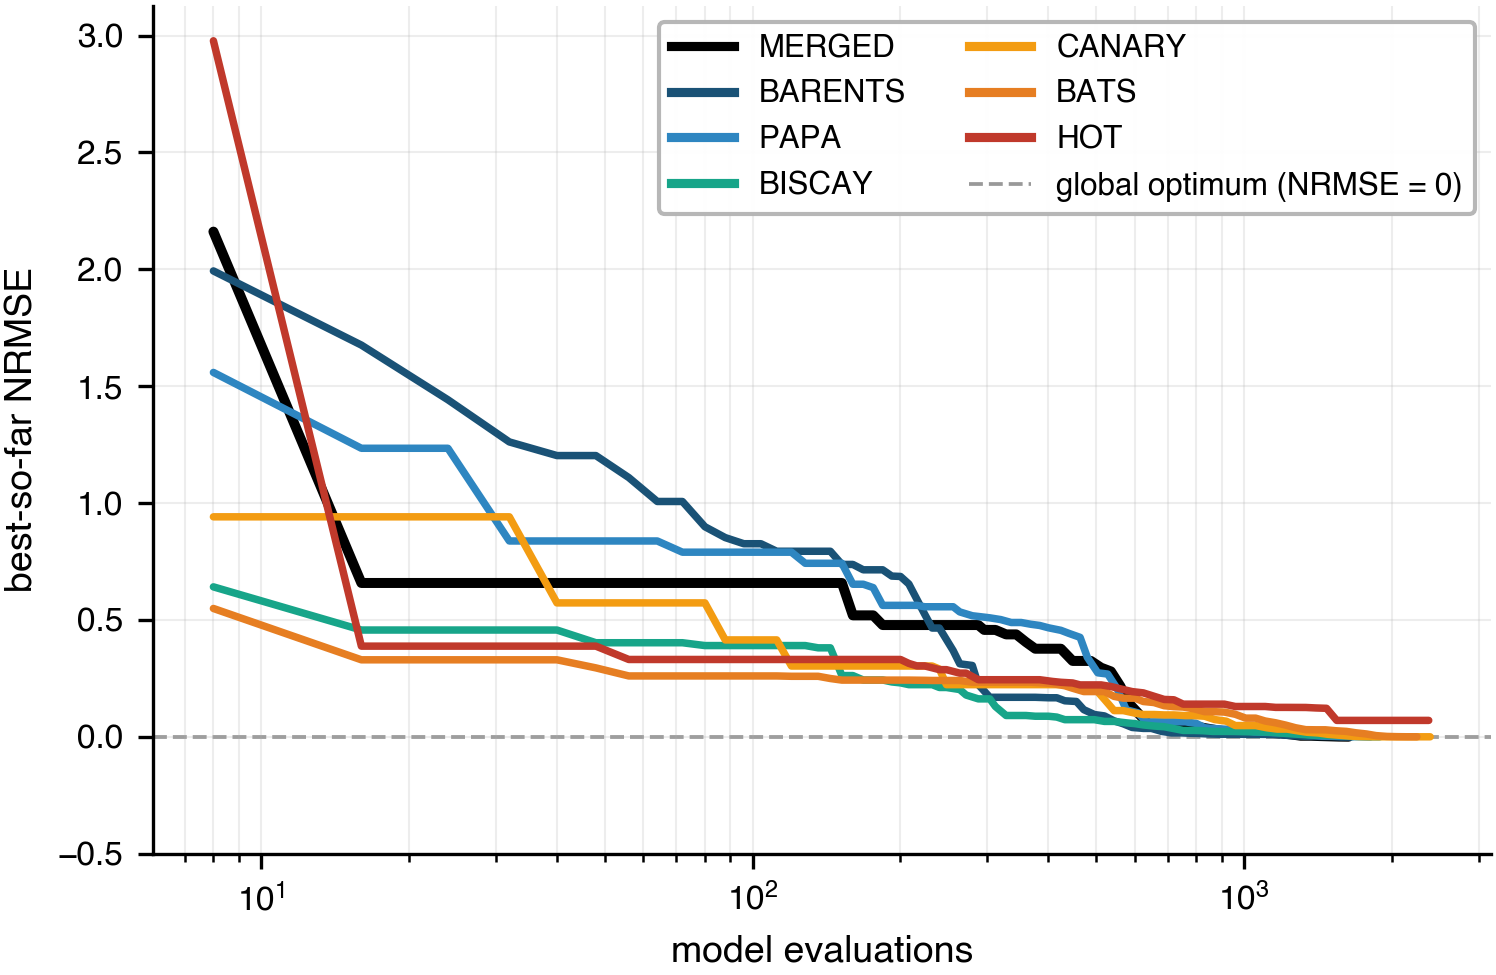
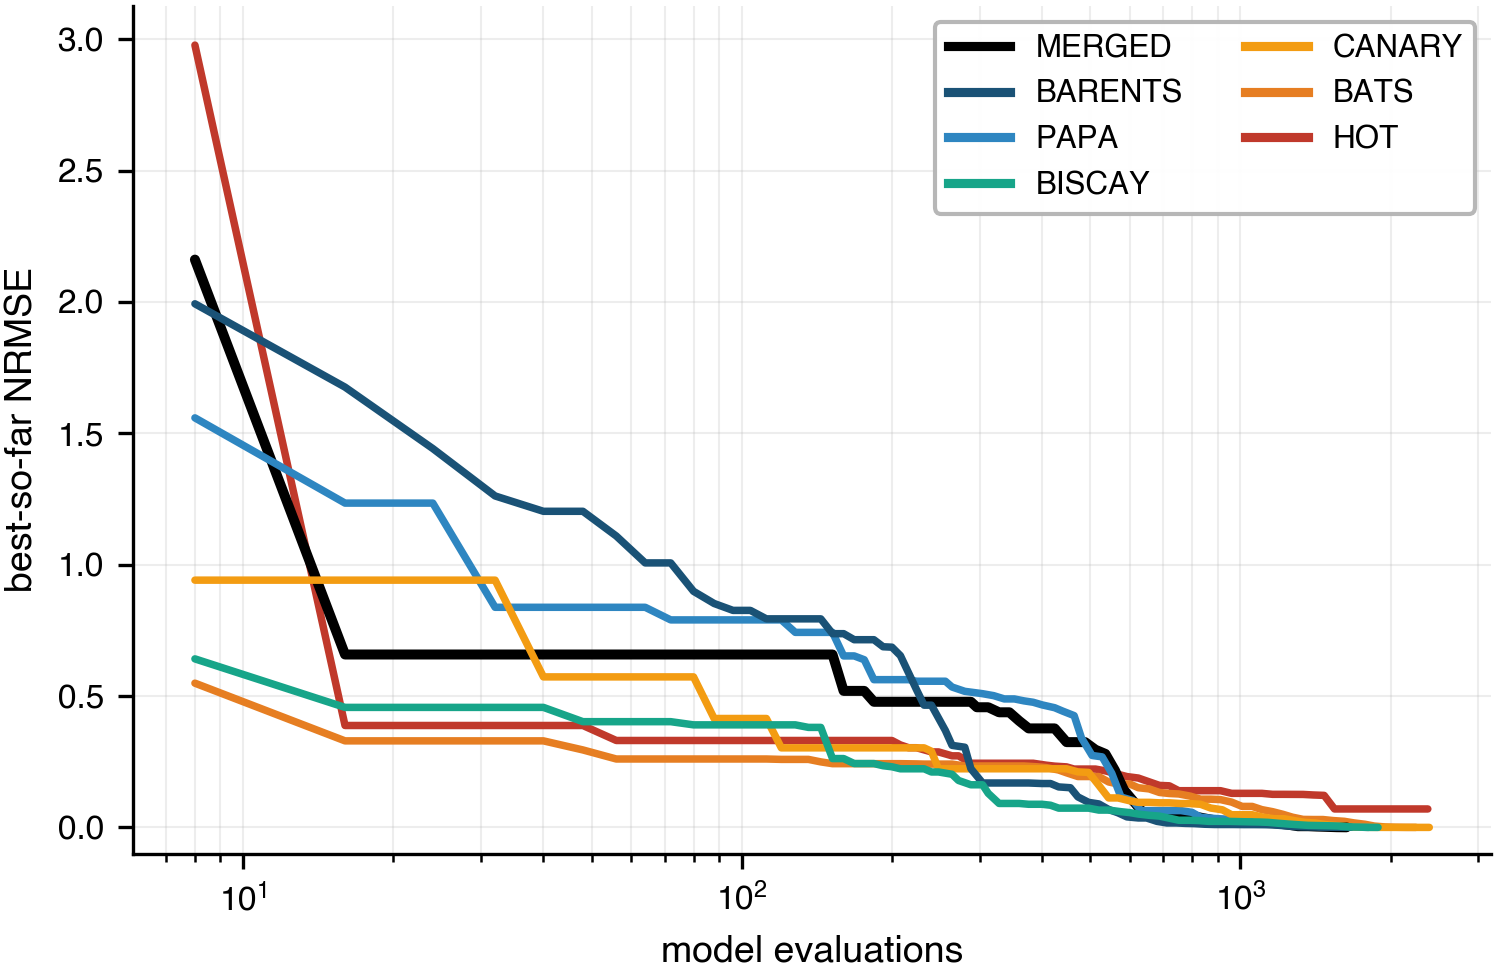
Figure 7: layer fastest-to-converge in front, ymin -0.1, drop the optimum line
- z-order lines by convergence speed (evaluations to first reach NRMSE<=0.1): fastest in the foreground
- y floor -0.5 -> -0.1 (just enough to lift the converged plateaus off the bottom frame)
- remove the dashed NRMSE=0 reference line + its legend entry

diff --git a/scripts/figures/fig07_convergence.py b/scripts/figures/fig07_convergence.py
@@ -2,9 +2,9 @@
 
 For each experiment (MERGED + 6 stations), the best of the 10 seeded restarts: its best-so-far NRMSE
 vs model evaluations. log x-axis (the descent spans 8 -> ~10^4 evaluations); LINEAR y so the near-zero
-region is not exaggerated. The dashed line marks the twin global optimum (NRMSE = 0): every experiment
-reaches it except HOT, whose best restart floors at ~0.07 (its information-limited structural minimum).
-The per-seed spread is shown in Figure 8 (recovery).
+region is not exaggerated. Every experiment converges to the twin global optimum (NRMSE = 0) except
+HOT, whose best restart floors at ~0.07 (its information-limited structural minimum). Lines are layered
+fastest-to-converge in front. The per-seed spread is shown in Figure 8 (recovery).
 
 Reads ONLY the committed product products/cmaes_convergence_traces_l8.csv (frozen by
 scripts/experiments/run_cmaes_seed_ensemble.py).
@@ -30,20 +30,29 @@ def best_trajectory(exp):
     return t.evaluations.to_numpy(), t.best_nrmse.to_numpy()
 
 
+trajs = {e: best_trajectory(e) for e in ORDER}
+
+
+def converged_at(e, thresh=0.1):
+    """Evaluations to first reach NRMSE <= thresh (best-so-far is monotone, so a clean crossing)."""
+    ev, b = trajs[e]
+    below = ev[b <= thresh]
+    return below[0] if len(below) else float("inf")
+
+
 fig, ax = plt.subplots(figsize=(0.78 * fs.WIDTH_FULL, 0.52 * fs.WIDTH_FULL))
-ax.axhline(0, color="0.6", lw=0.9, ls="--", zorder=1)   # twin global optimum (NRMSE = 0)
-for e in ORDER:
-    ev, b = best_trajectory(e)
-    ax.plot(ev, b, color=fs.color(e), lw=2.4 if e == "MERGED" else 1.8, zorder=5, solid_capstyle="round")
+for rank, e in enumerate(sorted(ORDER, key=converged_at)):   # fastest to converge -> foreground
+    ev, b = trajs[e]
+    ax.plot(ev, b, color=fs.color(e), lw=2.4 if e == "MERGED" else 1.8,
+            zorder=5 + len(ORDER) - rank, solid_capstyle="round")
 
 ax.set_xscale("log")
-ax.set_ylim(-0.5, None)   # negative floor lifts the converged plateaus off the bottom frame
+ax.set_ylim(-0.1, None)   # small negative floor lifts the converged plateaus off the bottom frame
 ax.set_xlabel("model evaluations")
 ax.set_ylabel("best-so-far NRMSE")
 ax.grid(True, which="both", alpha=0.22, linewidth=0.5)
 
 handles = [Line2D([0], [0], color=fs.color(e), lw=2.2, label=fs.label(e)) for e in ORDER]
-handles.append(Line2D([0], [0], color="0.6", lw=0.9, ls="--", label="global optimum (NRMSE = 0)"))
 ax.legend(handles=handles, loc="upper right", ncol=2, fontsize=7.5,
           frameon=True, framealpha=0.95, edgecolor="0.7")
 fig.tight_layout()
